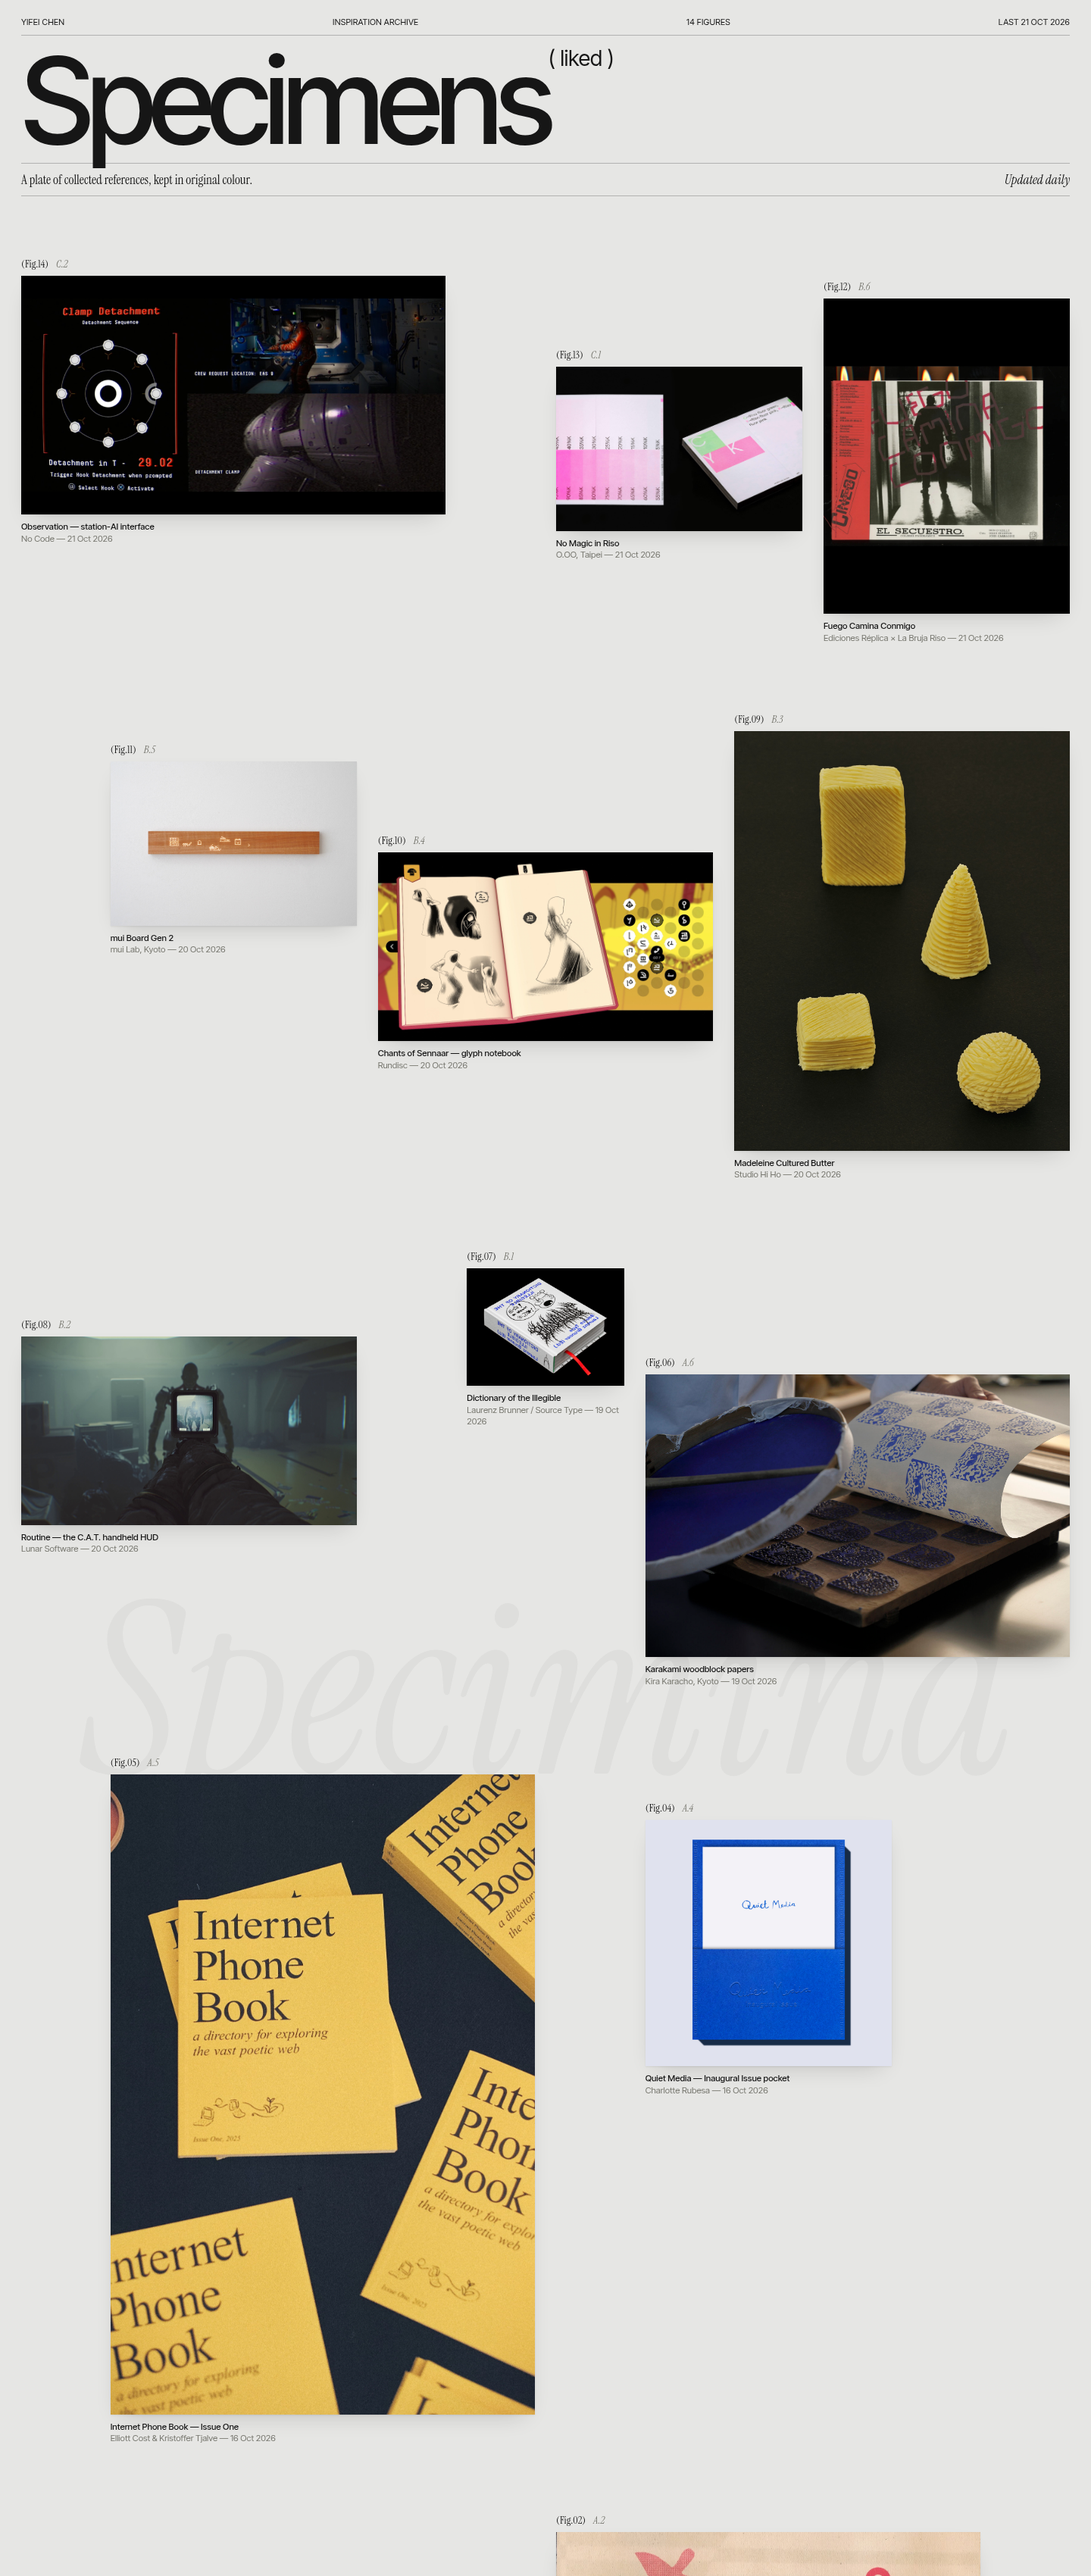
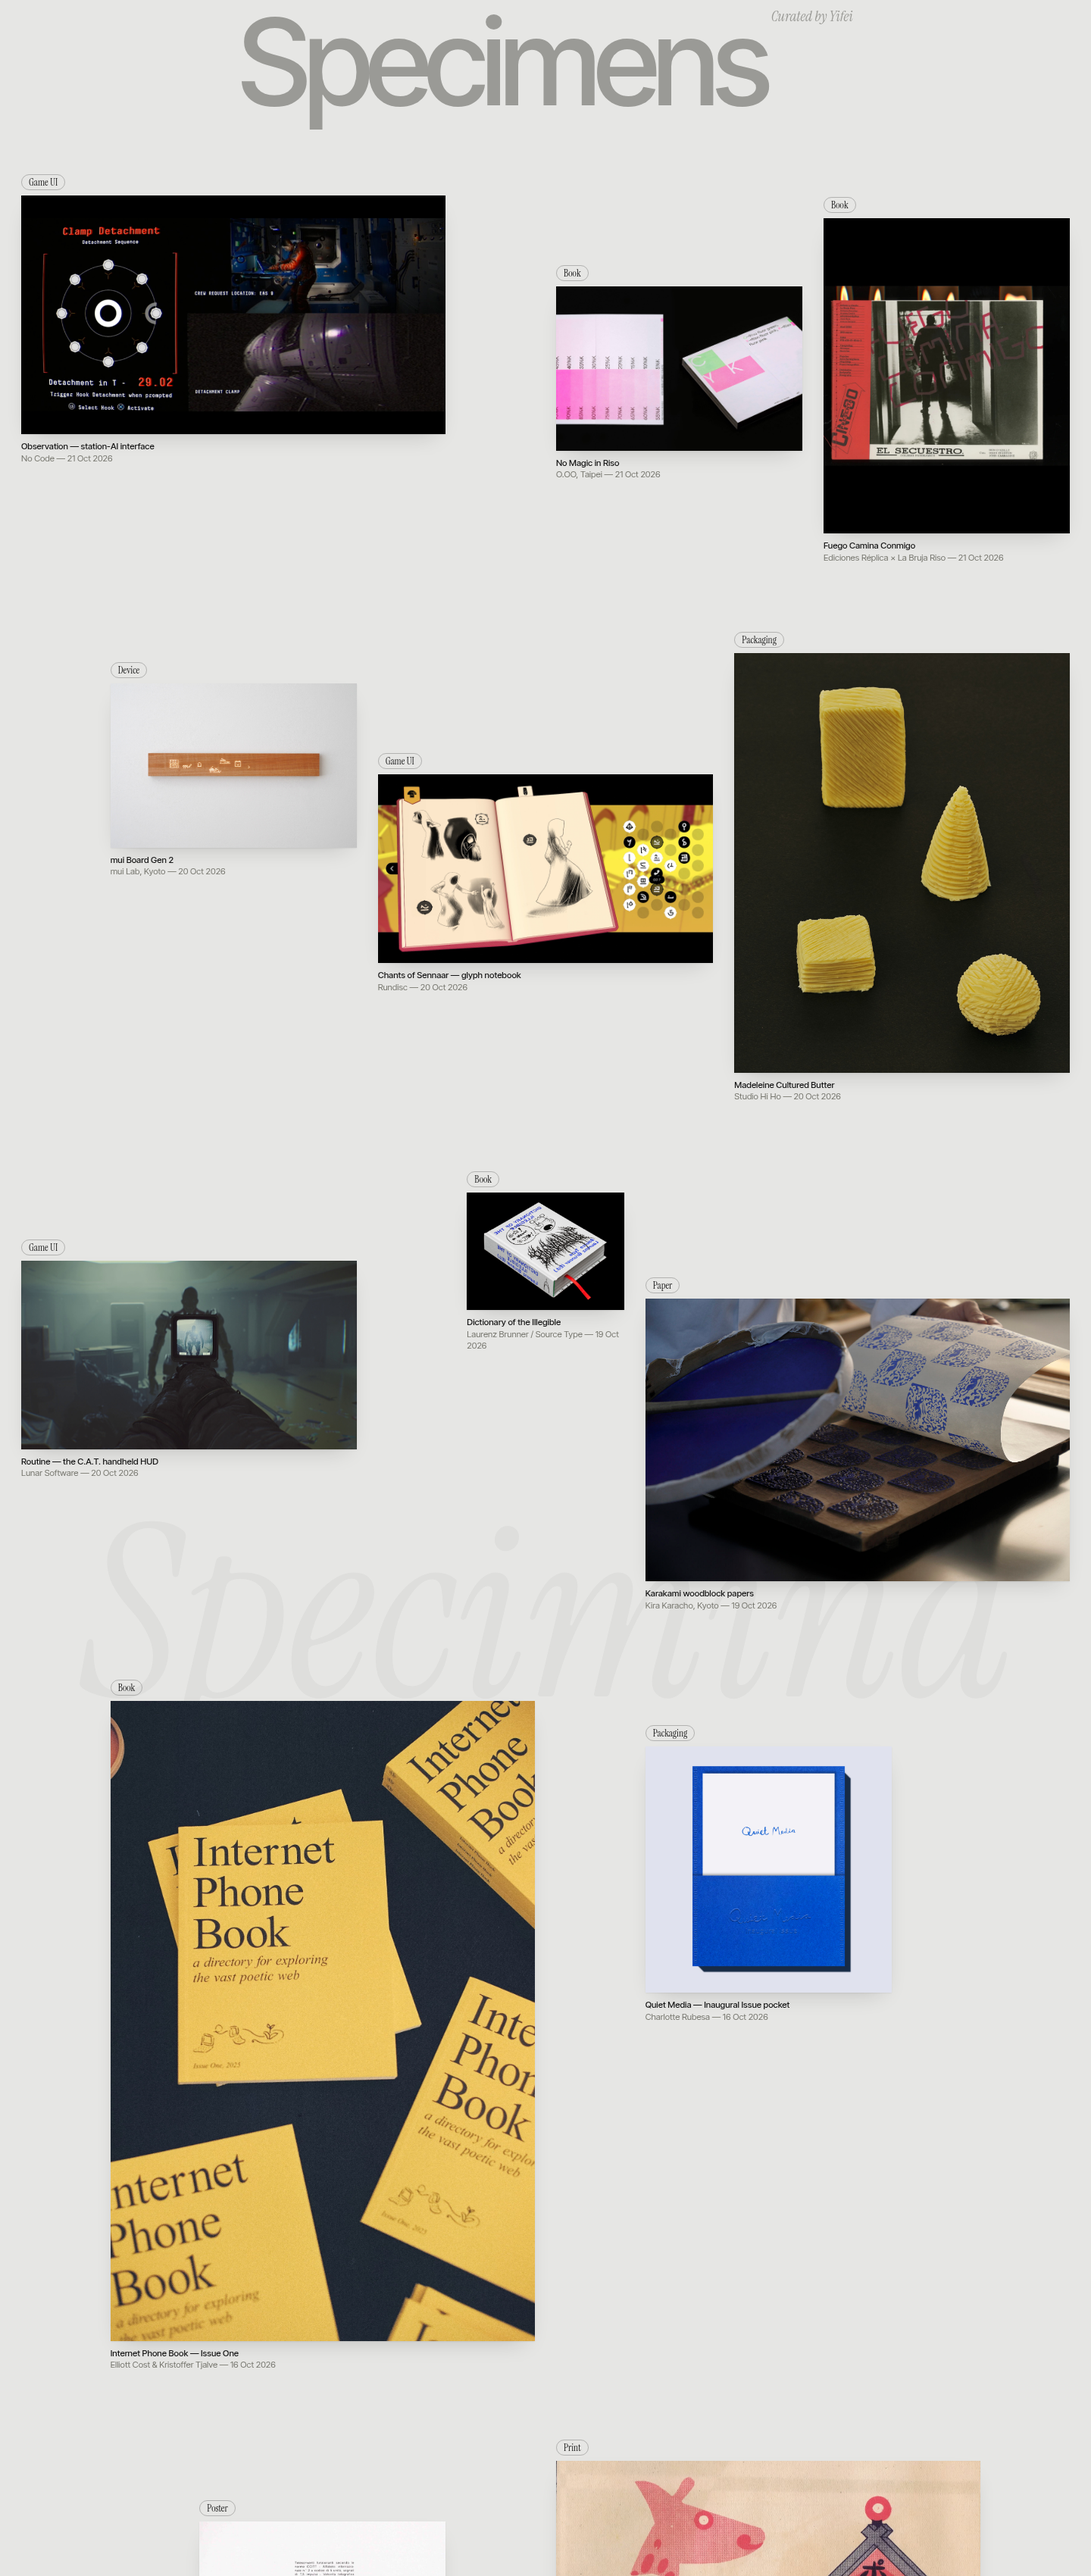
Revisions: sticky grey centred title, type tags, Curated by Yifei, no footer/meta, float-in

diff --git a/index.html b/index.html
@@ -1,5 +1,5 @@
 <!doctype html><html lang="en"><head><meta charset="utf-8"><meta name="viewport" content="width=device-width,initial-scale=1">
-<title>Specimens — Yifei Chen inspiration archive</title>
+<title>Specimens — Curated by Yifei</title>
 <link href="https://fonts.googleapis.com/css2?family=Instrument+Serif:ital@0;1&family=Inter+Tight:wght@400;500;600&display=swap" rel="stylesheet">
 <style>
 :root{--bg:#e6e6e4;--ink:#161616;--mute:#77776f;--rule:#16161640}
@@ -22,13 +22,18 @@ h1{font-weight:500;font-size:clamp(56px,11vw,180px);letter-spacing:-.055em;line-
 .index a:hover{color:#5a5a52}.index em{color:var(--mute);font-size:13px}
 footer{padding:0 28px 28px;font-size:11px;text-transform:uppercase;color:var(--mute);display:flex;justify-content:space-between}
 @media(max-width:760px){.plate{grid-template-columns:repeat(6,1fr);row-gap:56px;column-gap:16px;padding:48px 16px}.card{grid-column:span 6!important;margin:0!important}.card.s{grid-column:span 3!important}header{padding:16px}.index{margin:20px 16px}}
+header{position:sticky;top:0;z-index:5;padding:14px 28px 0;text-align:center;pointer-events:none}
+h1{font-weight:500;font-size:clamp(56px,11vw,180px);letter-spacing:-.055em;line-height:.86;padding:0;border:0;color:#9a9a96}
+h1 sup{font-family:"Instrument Serif",serif;font-style:italic;font-size:.12em;letter-spacing:0;vertical-align:top;font-weight:400;margin-left:.4em}
+.tag{display:inline-block;border:1px solid var(--rule);border-radius:99px;padding:1px 9px;font-size:13px}
+.card{opacity:0;transform:translateY(28px);transition:opacity .9s ease,transform .9s cubic-bezier(.2,.7,.2,1)}.card.in{opacity:1;transform:none}
+@media(prefers-reduced-motion:reduce){.card{opacity:1;transform:none;transition:none}}
+.plate,.index{position:relative;z-index:6}
 </style></head><body>
-<header><div class="meta"><span>Yifei Chen</span><span>Inspiration Archive</span><span id="cnt"></span><span id="upd"></span></div>
-<h1>Specimens<sup style="font-size:.18em;letter-spacing:0;vertical-align:top;font-weight:400">( liked )</sup></h1>
-<div class="sub"><span>A plate of collected references, kept in original colour.</span><span><i>Updated daily</i></span></div></header>
+<header><h1>Specimens<sup>Curated by Yifei</sup></h1>
+</header>
 <main class="plate" id="plate"><div class="ghost">Specimina</div></main>
 <section class="index" id="index"></section>
-<footer><span>Plate I — Grey ground</span><span>Each figure links to its source</span></footer>
 <script>
 // layout rhythm: [colStart, span, topOffset px]
 const L=[[1,5,0],[7,3,120],[10,3,30],[2,3,40],[5,4,160],[9,4,0],[1,4,90],[6,2,0],[8,5,140],[2,5,0],[8,3,60],[3,3,80],[7,5,0],[1,3,40]];
@@ -38,8 +43,8 @@ fetch('data/items.json').then(r=>r.json()).then(items=>{
  items.slice().reverse().forEach((it,k)=>{const n=items.length-k,f=String(n).padStart(2,'0'),code=String.fromCharCode(65+Math.floor((n-1)/6))+'.'+(((n-1)%6)+1);
   const [c,s,t]=L[k%L.length];const a=document.createElement('a');a.className='card'+(s<=3?' s':'');a.href=it.url;a.target='_blank';a.rel='noopener';
   a.style.cssText=`grid-column:${c}/span ${s};margin-top:${t}px`;
-  a.innerHTML=`<div class="lab"><span>(Fig.${f})</span><i>${code}</i></div><img loading="lazy" src="${it.img}" alt="${it.title}"><div class="cap"><b>${it.title}</b><span>${it.creator} — ${fmt(it.date)}</span></div>`;p.appendChild(a);
+  a.innerHTML=`<div class="lab"><span class="tag">${it.type||""}</span></div><img loading="lazy" src="${it.img}" alt="${it.title}"><div class="cap"><b>${it.title}</b><span>${it.creator} — ${fmt(it.date)}</span></div>`;p.appendChild(a);
   const r=document.createElement('a');r.href=it.url;r.target='_blank';r.rel='noopener';r.innerHTML=`<span>Fig.${f}</span><span>${it.title}</span><em>${fmt(it.date)}</em>`;ix.appendChild(r);});
- document.getElementById('cnt').textContent=items.length+' figures';
- document.getElementById('upd').textContent='Last '+fmt(items.map(i=>i.date).sort().pop());});
+ const io=new IntersectionObserver(es=>es.forEach(e=>{if(e.isIntersecting){e.target.classList.add('in');io.unobserve(e.target)}}),{threshold:.12});
+ document.querySelectorAll('.card').forEach(c=>io.observe(c));});
 </script></body></html>
